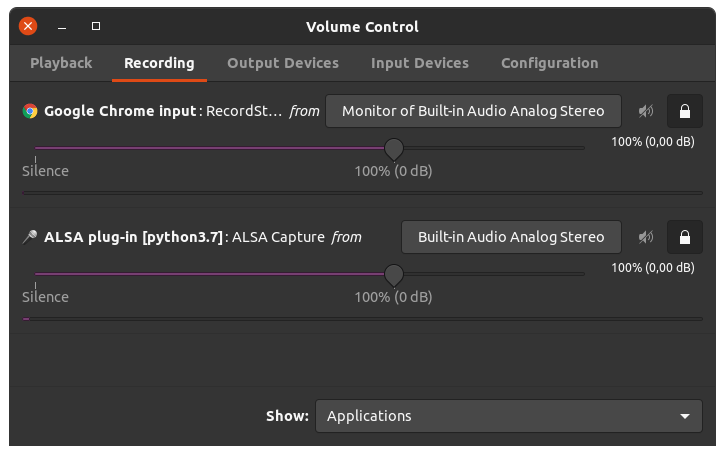
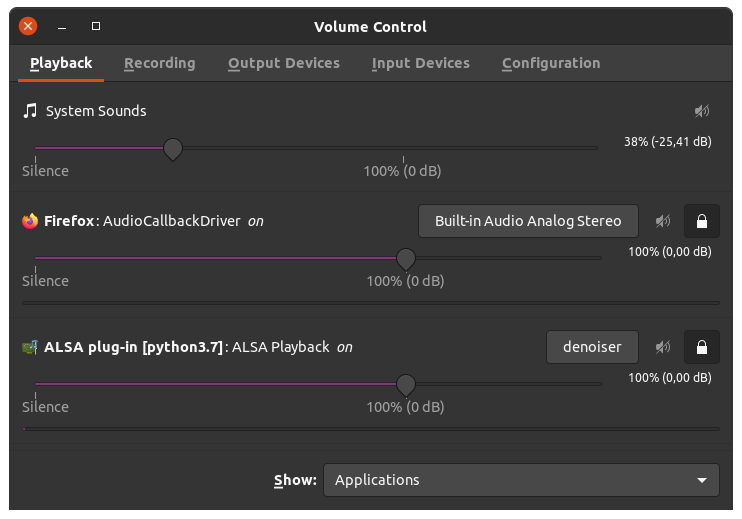
Updated instruction for ubuntu live enhancement

diff --git a/README.md b/README.md
@@ -73,13 +73,18 @@ By default, `denoiser` will use the default audio input. You can change that wit
 
 Note that on Windows you will need to replace `python` by `python.exe`.
 
-**On Linux** (tested on Ubuntu 20.04), you can use `pavucontrol`: in the _Recording_ tab, after launching 
-`python -m denoiser.live --out INDEX_OR_NAME_OF_LOOPBACK_IFACE` and the software you want to denoise for (here an in-browser call), you should see both applications:
+**On Linux** (tested on Ubuntu 20.04), you can use the `pacmd` command and the `pavucontrol` tool:
+- run the following commnds:
+```bash
+pacmd load-module module-null-sink sink_name=denoiser
+pacmd update-sink-proplist denoiser device.description=denoiser
+```
+This will add a `Monitor of Null Output` to the list of microphones to use. Select it as input in your software. 
+- in the _Playback_ tab, after launching 
+`python -m denoiser.live --out INDEX_OR_NAME_OF_LOOPBACK_IFACE` and the software you want to denoise for (here an in-browser call), you should see both applications. For *denoiser* interface as Playback destination which will output the processed audio stream on the sink we previously created.
 <p align="center">
 <img src="./img/pavucontrol.png" alt="pavucontrol window and parameters to use."
 width="50%"></p>
-
-For the latter, you must indicate the *Monitor of ...* interface as source which will output the processed audio stream (delayed by a few ms depending on the parameters you chose).
 
 ### Troubleshooting bad quality in separation
 
